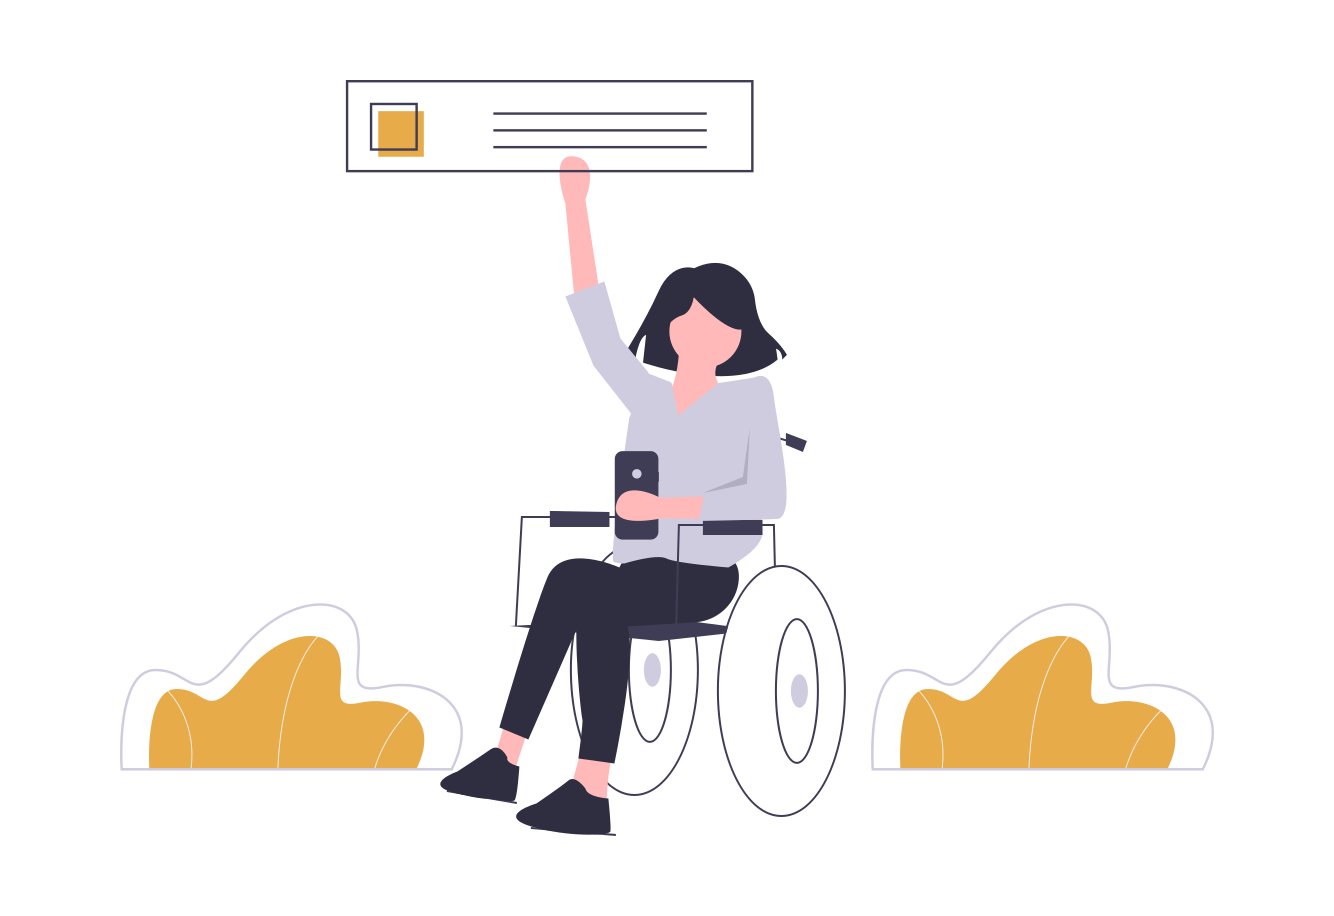
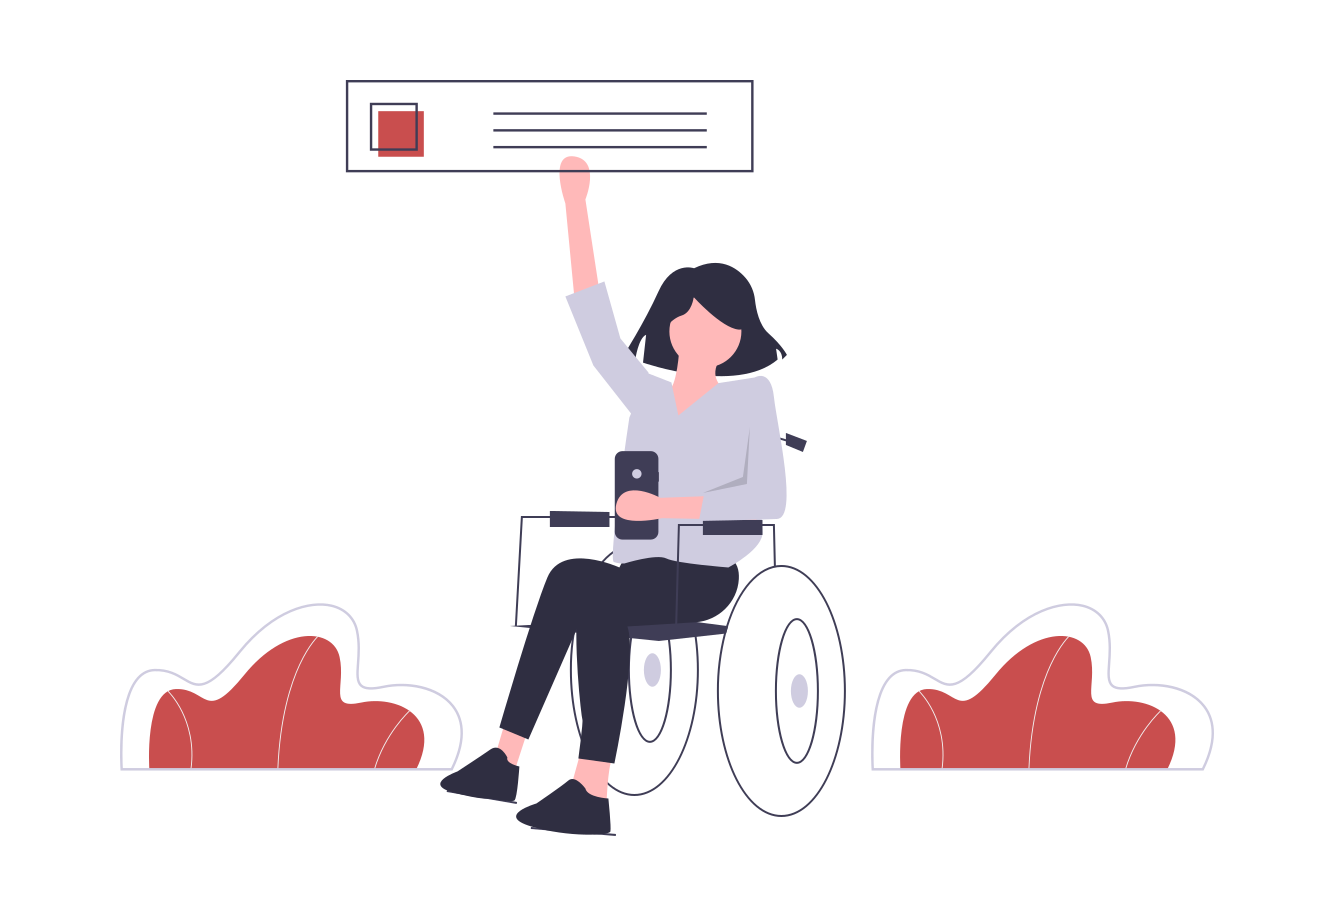
Updated colour palette & images

Changed region(s): [[0.0922, 0.6725, 0.3381, 0.8559], [0.6762, 0.6725, 0.8913, 0.8559], [0.2766, 0.1223, 0.3381, 0.1834]]

diff --git a/src/Reviews.js b/src/Reviews.js
@@ -23,7 +23,7 @@ if (loaded) {
           <div className="container-fluid">
             <div className="row align-items-center">
                 <div className="col-4 title-col">
-                <img src="../images/overview_undraw.png" className="img-fluid" 
+                <img src="../images/reviews_undraw.png" className="img-fluid" 
                 alt="a person holds pages of paper while looking at instructions for what is next"></img>
                 </div>
                 <div className="col title-col">

diff --git a/src/ReviewsSection.js b/src/ReviewsSection.js
@@ -13,10 +13,7 @@ return (
         <div className="col title-col">
         <h3>{props.title}</h3>
          </div>
-        <div className="col-4 title-col">
-        <img src="../images/mentor_advisors_undraw.png" className="img-fluid" 
-        alt="person arranging images of people with speech bubbles"></img>
-        </div>
+
     </div>
     <div className="row">
 <ReviewsText contents={props.title}/>

diff --git a/src/ReviewsSection.css b/src/ReviewsSection.css
@@ -2,13 +2,13 @@
 .ReviewsSection {
     background-color: var(--primary-color);
     border: dotted 8px var(--accent-color);
-    color: var(--accent-color);
+    color: var(--secondary-color);
     margin: 0 auto;
     max-width: 785px;
 }
 
 .ReviewsSection p {
-    color: var(--accent-color);
+    color: var(--secondary-color);
     font-size: 18px;
     padding: 10px 40px;
 }

diff --git a/src/App.css b/src/App.css
@@ -1,7 +1,7 @@
 :root {
-    --primary-color: #3f3d56;
-    --secondary-color: #e8ab49;
-    --accent-color: #fefefe;
+    --primary-color: #430d27;
+    --secondary-color: #fefefe;
+    --accent-color: #c94e4e;
 }
 
 body {
